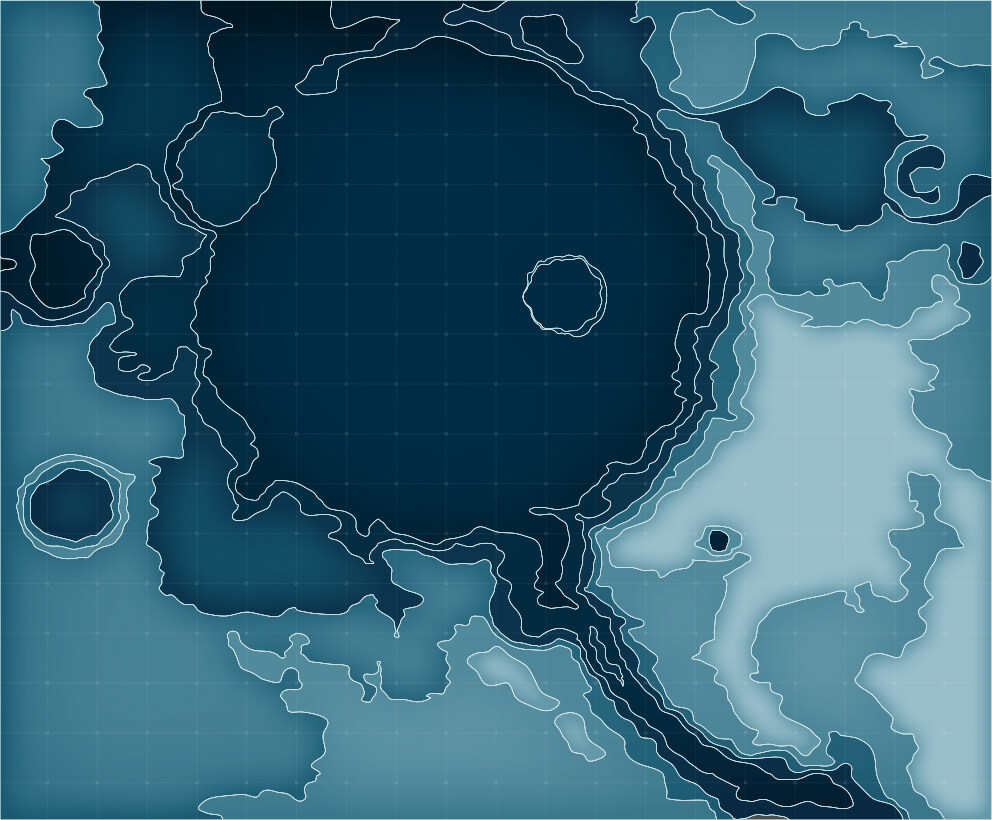
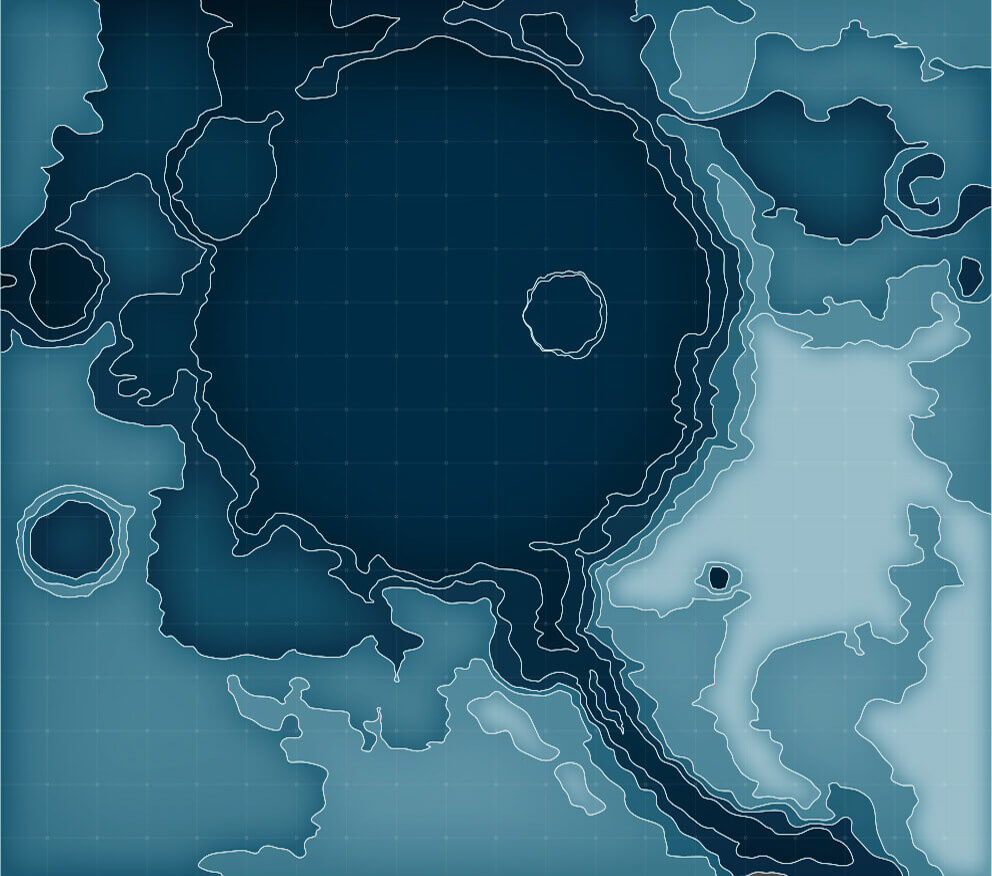
Adaptiveness update #3
Change map pic, size of fonts and paddings. Now even closer to prototype

diff --git a/style.css b/style.css
@@ -25,35 +25,35 @@ p {
   color: rgb(195,246,249);
   display: flex;
   display: -webkit-flex;
-  font-size: 1.2vw;
+  font-size: 1.15vw;
   text-transform: uppercase;
+  letter-spacing:0.1em;
 }
 #left-part {
-  flex: 1;
+    margin-right: 1.3vw;
+    flex: 1.1;
     display: flex;
     flex-direction: column;
     justify-content: center;
     align-items: stretch;
-    padding-right: 2vw;
 }
 #right-part {
-  flex: 2.35;
+    flex: 2.27;
     display: flex;
     flex-direction: column;
     justify-content: center;
-    align-items: stretch;
-    padding-left: 2vw;
+    align-items: stretch;    
+    padding-left: 2.2vw;
 }
 #column {
     display: flex;
     align-items: center;
     justify-content: space-around;
     flex-direction: column;
-    height: 44.7625vw;
+    height: 45.536vw;
 }
 #inner_column {
-    flex: 1;
-    padding: 9vh 0 7.5vh 0;
+    flex: 1.17;
     border-left: 2px solid rgb(195,246,249);
     display: flex;
     flex-direction: column;
@@ -61,11 +61,12 @@ p {
 }
 #image_container {
   position: relative;
-  padding: 2.5vw 0;
+  margin: 2.5vw 0;
+  border: 2px solid rgb(195,246,249);
 }
 #noise_image {
   position: absolute;
-  top: 2.5vw;
+  top: 0;
   left: 0;
 
   -webkit-transition: opacity 1s linear; /* Safari */
@@ -131,6 +132,7 @@ p {
 }
 .nomargin {
   margin: 0;
+  padding-bottom: 5px;
 }
 .no_topmargin {
   margin-top: 0;
@@ -139,7 +141,8 @@ p {
   margin-bottom: 0;
 }
 .flagtext {
-  font-size: 1.1vw;
+  font-size: 1vw;
+  letter-spacing: initial;
   color: rgb(176,146,96);
   font-weight: bold;
   text-align: right;

diff --git a/index.html b/index.html
@@ -14,12 +14,12 @@
 <!-- Current probe image and info -->
 <div class="inner_container">
 <div id="left-part">
-<div style="height: 44.17vw; display: flex; flex-direction: column;">
+<div style="height: 45.7vw; display: flex; flex-direction: column;">
 	<p class="nomargin">Земля:<span class="text-to-right" id="EarthTime">????.??.??</span></p>
 	<p class="nomargin">Марс:<span id="MarsTime" class="text-to-right">??.??.??</span></p>
 	<div id="image_container">
-		<img id="probe_image" class="img-responsive bordered-item" src="images/noise.gif" alt="фото с зонда">
-		<img id="noise_image" class="img-responsive bordered-item" src="images/noise.gif" alt="белый шум">
+		<img id="probe_image" class="img-responsive" src="images/noise.gif" alt="фото с зонда">
+		<img id="noise_image" class="img-responsive" src="images/noise.gif" alt="белый шум">
 	</div>
 	<p class="nomargin" style="padding-bottom: 1.8vw;">Метеозонд:<span id="probe" class="text-to-right">--</span></p>
 	<p class="nomargin">М.О.Д.:<span id="atmo" class="text-to-right">--</span></p>
@@ -37,9 +37,6 @@
 	<div class="map-container">
 		<img id="imgMap" class="img-responsive bordered-item" src="images/map2.jpg" alt="карта поверхности">
 		<canvas id="dustCanvas" class="img-responsive"></canvas>
-
-		<script>
-	    </script>
 
 		<div id="flag1" class="flags">
 			<img class="invisible" src="images/flag_dot.png" alt="флаг-точка">

diff --git a/cellularmatrix.js b/cellularmatrix.js
@@ -8,7 +8,7 @@ $( document ).ready(function() {
 canvas = document.getElementById('dustCanvas');
 context = canvas.getContext('2d');
 context.canvas.width = 992;
-context.canvas.height = 820;
+context.canvas.height = 876;
 
 for (var i = 0; i < m; i++){ //randomize fiest matrix
     mas[i] = [];
